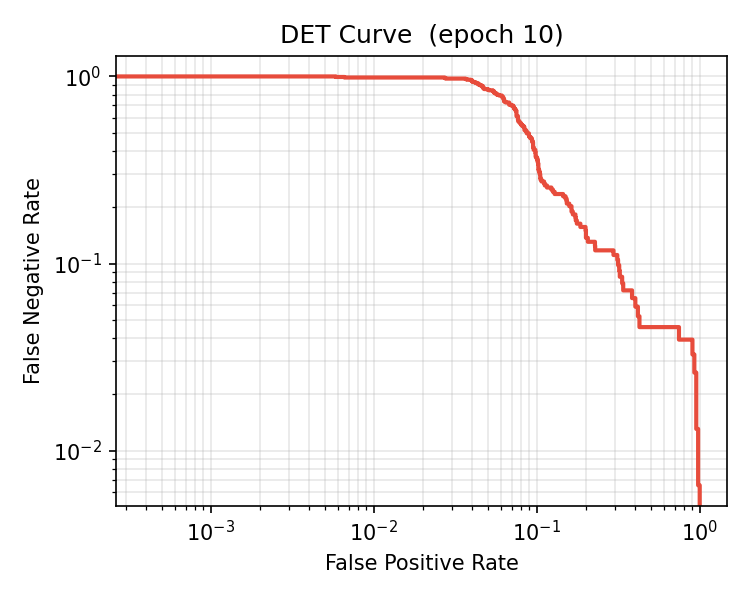
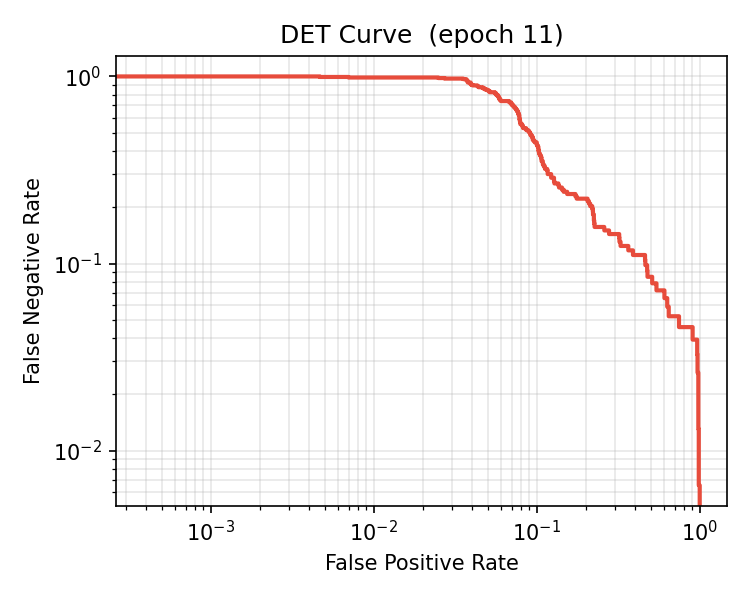
Make linacodec a proper ww_trainer sub-package (no sys.path hacks)
Move ww_trainer/vendors/linacodec/ → ww_trainer/linacodec/ so it is part
of the installed package and importable as ww_trainer.linacodec without
any sys.path manipulation.

Update vc_helpers._LinaCodecBackend to import directly:
  from ww_trainer.linacodec.codec import LinaCodec

All internal linacodec imports are relative so no changes needed there.
The vocoder's `from vocos import ...` references the pip-installed vocos,
which is correct.

vendors/ directory is now empty and removed.

diff --git a/ww_trainer/vc_helpers.py b/ww_trainer/vc_helpers.py
@@ -156,13 +156,7 @@ class _LinaCodecBackend(_VCBackend):
     sample_rate = 48000
 
     def __init__(self, device: str = "auto") -> None:
-        import sys, pathlib
-        # Ensure our vendored copy takes precedence over any installed linacodec
-        vendor_root = str(pathlib.Path(__file__).parent / "vendors")
-        if vendor_root not in sys.path:
-            sys.path.insert(0, vendor_root)
-
-        from linacodec.codec import LinaCodec  # type: ignore — vendored
+        from ww_trainer.linacodec.codec import LinaCodec
         logger.info("[VC] Loading LinaCodec (device=%s) — HF download on first run", device)
         self._model = LinaCodec(device=device)
         logger.info("[VC] LinaCodec ready  sr=%d", self.sample_rate)
